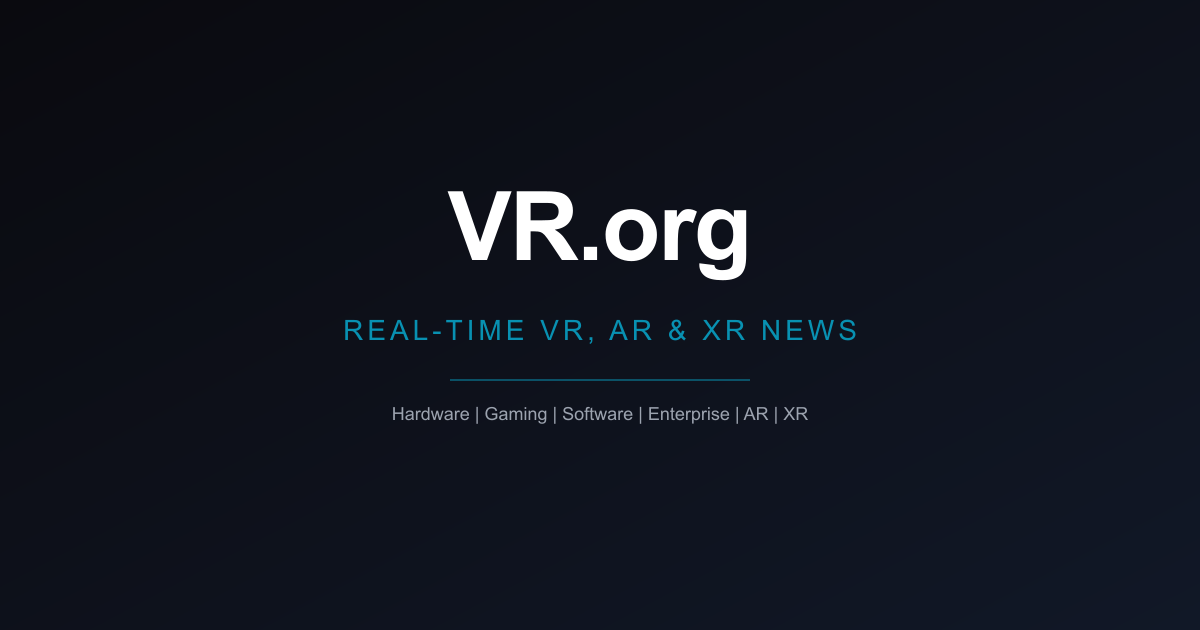
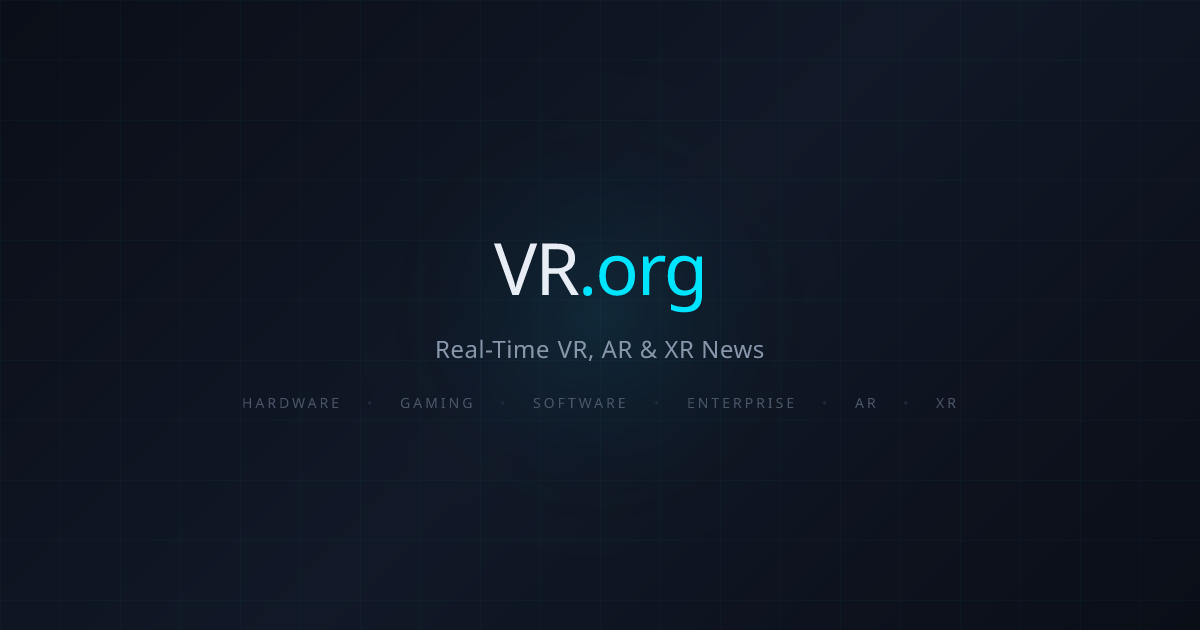
Branded per-article social cards via opengraph-image file convention
- New src/app/articles/[slug]/opengraph-image.tsx renders a 1200x630
  branded card (wordmark, category, headline, byline, date) for every
  article; og:image and twitter:image wire up automatically as absolute
  URLs via the new metadataBase in layout.tsx
- Article metadata no longer points social cards at the first inline image,
  which had arbitrary aspect ratios and broke when third-party hosts
  removed files; the NewsArticle schema still uses the real inline photo
- Refresh the /og-image.png route copy (Real-Time VR, AR & XR News, adds XR
  to the category strip) and regenerate the static public/og-image.png from
  it so the nginx-served file and the route render identically

Changed region(s): [[0.2775, 0.3016, 0.7092, 0.573], [0.3083, 0.6333, 0.6783, 0.6635], [0.2158, 0.6333, 0.2775, 0.6635]]

diff --git a/src/app/articles/[slug]/opengraph-image.tsx b/src/app/articles/[slug]/opengraph-image.tsx
@@ -1,0 +1,182 @@
+import { ImageResponse } from "next/og";
+import { getArticleBySlug } from "@/lib/articles";
+
+// Branded per-article social card. The file convention wires this into
+// og:image automatically (and X falls back to og:image when twitter:image
+// is absent), replacing the old behavior of pointing social cards at the
+// article's first inline image, which had arbitrary aspect ratios and could
+// die when a third-party host removed the file. The NewsArticle schema in
+// page.tsx still uses the real inline photo, which Google prefers.
+export const size = { width: 1200, height: 630 };
+export const contentType = "image/png";
+export const alt = "VR.org article";
+
+const CATEGORY_LABELS: Record<string, string> = {
+  hardware: "Hardware",
+  gaming: "Gaming",
+  software: "Software",
+  enterprise: "Enterprise",
+  ar: "AR / Spatial",
+  xr: "XR",
+};
+
+export default async function Image({
+  params,
+}: {
+  params: Promise<{ slug: string }>;
+}) {
+  const { slug } = await params;
+  const article = getArticleBySlug(slug);
+
+  const title = article?.title || "VR News, AR News & XR News";
+  const category = article
+    ? CATEGORY_LABELS[article.category] || article.category
+    : "News";
+  const author = article?.author || "VR.org";
+  const date = article
+    ? new Date(article.publishDate).toLocaleDateString("en-US", {
+        year: "numeric",
+        month: "long",
+        day: "numeric",
+        timeZone: "UTC",
+      })
+    : "";
+
+  // Long headlines step down so four lines still fit above the byline.
+  const titleSize = title.length > 90 ? 44 : title.length > 60 ? 52 : 60;
+
+  return new ImageResponse(
+    (
+      <div
+        style={{
+          width: "100%",
+          height: "100%",
+          display: "flex",
+          flexDirection: "column",
+          justifyContent: "space-between",
+          padding: "56px 64px",
+          background:
+            "linear-gradient(135deg, #0a0e17 0%, #111827 50%, #0a0e17 100%)",
+          fontFamily: "system-ui, sans-serif",
+        }}
+      >
+        {/* Subtle grid overlay */}
+        <div
+          style={{
+            position: "absolute",
+            top: 0,
+            left: 0,
+            right: 0,
+            bottom: 0,
+            backgroundImage:
+              "linear-gradient(rgba(0,229,255,0.03) 1px, transparent 1px), linear-gradient(90deg, rgba(0,229,255,0.03) 1px, transparent 1px)",
+            backgroundSize: "60px 60px",
+          }}
+        />
+
+        {/* Glow effect */}
+        <div
+          style={{
+            position: "absolute",
+            width: "600px",
+            height: "600px",
+            borderRadius: "50%",
+            background:
+              "radial-gradient(circle, rgba(0,229,255,0.07) 0%, transparent 70%)",
+            top: "-180px",
+            right: "-120px",
+          }}
+        />
+
+        {/* Header: wordmark + category */}
+        <div
+          style={{
+            display: "flex",
+            justifyContent: "space-between",
+            alignItems: "center",
+            zIndex: 1,
+          }}
+        >
+          <div
+            style={{
+              fontSize: "40px",
+              fontWeight: 800,
+              color: "#e8edf5",
+              letterSpacing: "-1px",
+              display: "flex",
+            }}
+          >
+            VR
+            <span style={{ color: "#00e5ff" }}>.org</span>
+          </div>
+          <div
+            style={{
+              fontSize: "20px",
+              fontWeight: 600,
+              color: "#00e5ff",
+              textTransform: "uppercase",
+              letterSpacing: "4px",
+              display: "flex",
+            }}
+          >
+            {category}
+          </div>
+        </div>
+
+        {/* Headline */}
+        <div
+          style={{
+            display: "flex",
+            flexDirection: "column",
+            gap: "28px",
+            zIndex: 1,
+          }}
+        >
+          <div
+            style={{
+              width: "88px",
+              height: "5px",
+              background: "linear-gradient(90deg, #0891B2 0%, #00e5ff 100%)",
+              borderRadius: "3px",
+              display: "flex",
+            }}
+          />
+          <div
+            style={{
+              fontSize: `${titleSize}px`,
+              fontWeight: 800,
+              color: "#e8edf5",
+              letterSpacing: "-1px",
+              lineHeight: 1.18,
+              display: "flex",
+            }}
+          >
+            {title}
+          </div>
+        </div>
+
+        {/* Byline */}
+        <div
+          style={{
+            display: "flex",
+            justifyContent: "space-between",
+            alignItems: "center",
+            zIndex: 1,
+          }}
+        >
+          <div
+            style={{ fontSize: "22px", color: "#8896ab", display: "flex" }}
+          >
+            By {author}
+          </div>
+          <div
+            style={{ fontSize: "22px", color: "#4a5568", display: "flex" }}
+          >
+            {date}
+          </div>
+        </div>
+      </div>
+    ),
+    size
+  );
+}

diff --git a/src/app/articles/[slug]/page.tsx b/src/app/articles/[slug]/page.tsx
@@ -51,9 +51,11 @@ export async function generateMetadata({ params }: PageProps): Promise<Metadata>
   const article = getArticleBySlug(slug);
   if (!article) return { title: "Article Not Found | VR.org" };
 
-  const ogImage = extractFirstImage(article.body) || "https://vr.org/og-image.png";
   const metaDescription = clampMeta(article.snippet);
 
+  // og:image and twitter:image come from the opengraph-image.tsx file
+  // convention in this segment (a branded card with the headline), so no
+  // explicit images here; declaring them would override the generated one.
   return {
     title: `${article.title} | VR.org`,
     description: metaDescription,
@@ -68,13 +70,11 @@ export async function generateMetadata({ params }: PageProps): Promise<Metadata>
       publishedTime: article.publishDate,
       authors: [article.author],
       siteName: "VR.org",
-      images: [{ url: ogImage, width: 1200, height: 630, alt: article.title }],
     },
     twitter: {
       card: "summary_large_image",
       title: article.title,
       description: metaDescription,
-      images: [ogImage],
     },
   };
 }

diff --git a/src/app/layout.tsx b/src/app/layout.tsx
@@ -10,6 +10,9 @@ import {
 } from "@/components/StructuredData";
 
 export const metadata: Metadata = {
+  // Resolves relative metadata URLs (like the generated per-article
+  // opengraph-image paths) to the production origin instead of localhost.
+  metadataBase: new URL("https://vr.org"),
   title: "VR.org | VR News, AR News & XR News Today",
   description:
     "VR news, AR news, and XR news updated in real time. Original articles plus headlines from 38+ trusted sources covering VR hardware, gaming, software, enterprise, and spatial computing.",

diff --git a/src/app/og-image.png/route.tsx b/src/app/og-image.png/route.tsx
@@ -73,7 +73,7 @@ export async function GET() {
               letterSpacing: "0.5px",
             }}
           >
-            Virtual Reality & Augmented Reality News
+            Real-Time VR, AR & XR News
           </div>
 
           <div
@@ -97,6 +97,8 @@ export async function GET() {
             <span>Enterprise</span>
             <span style={{ color: "#1e293b" }}>•</span>
             <span>AR</span>
+            <span style={{ color: "#1e293b" }}>•</span>
+            <span>XR</span>
           </div>
         </div>
       </div>
